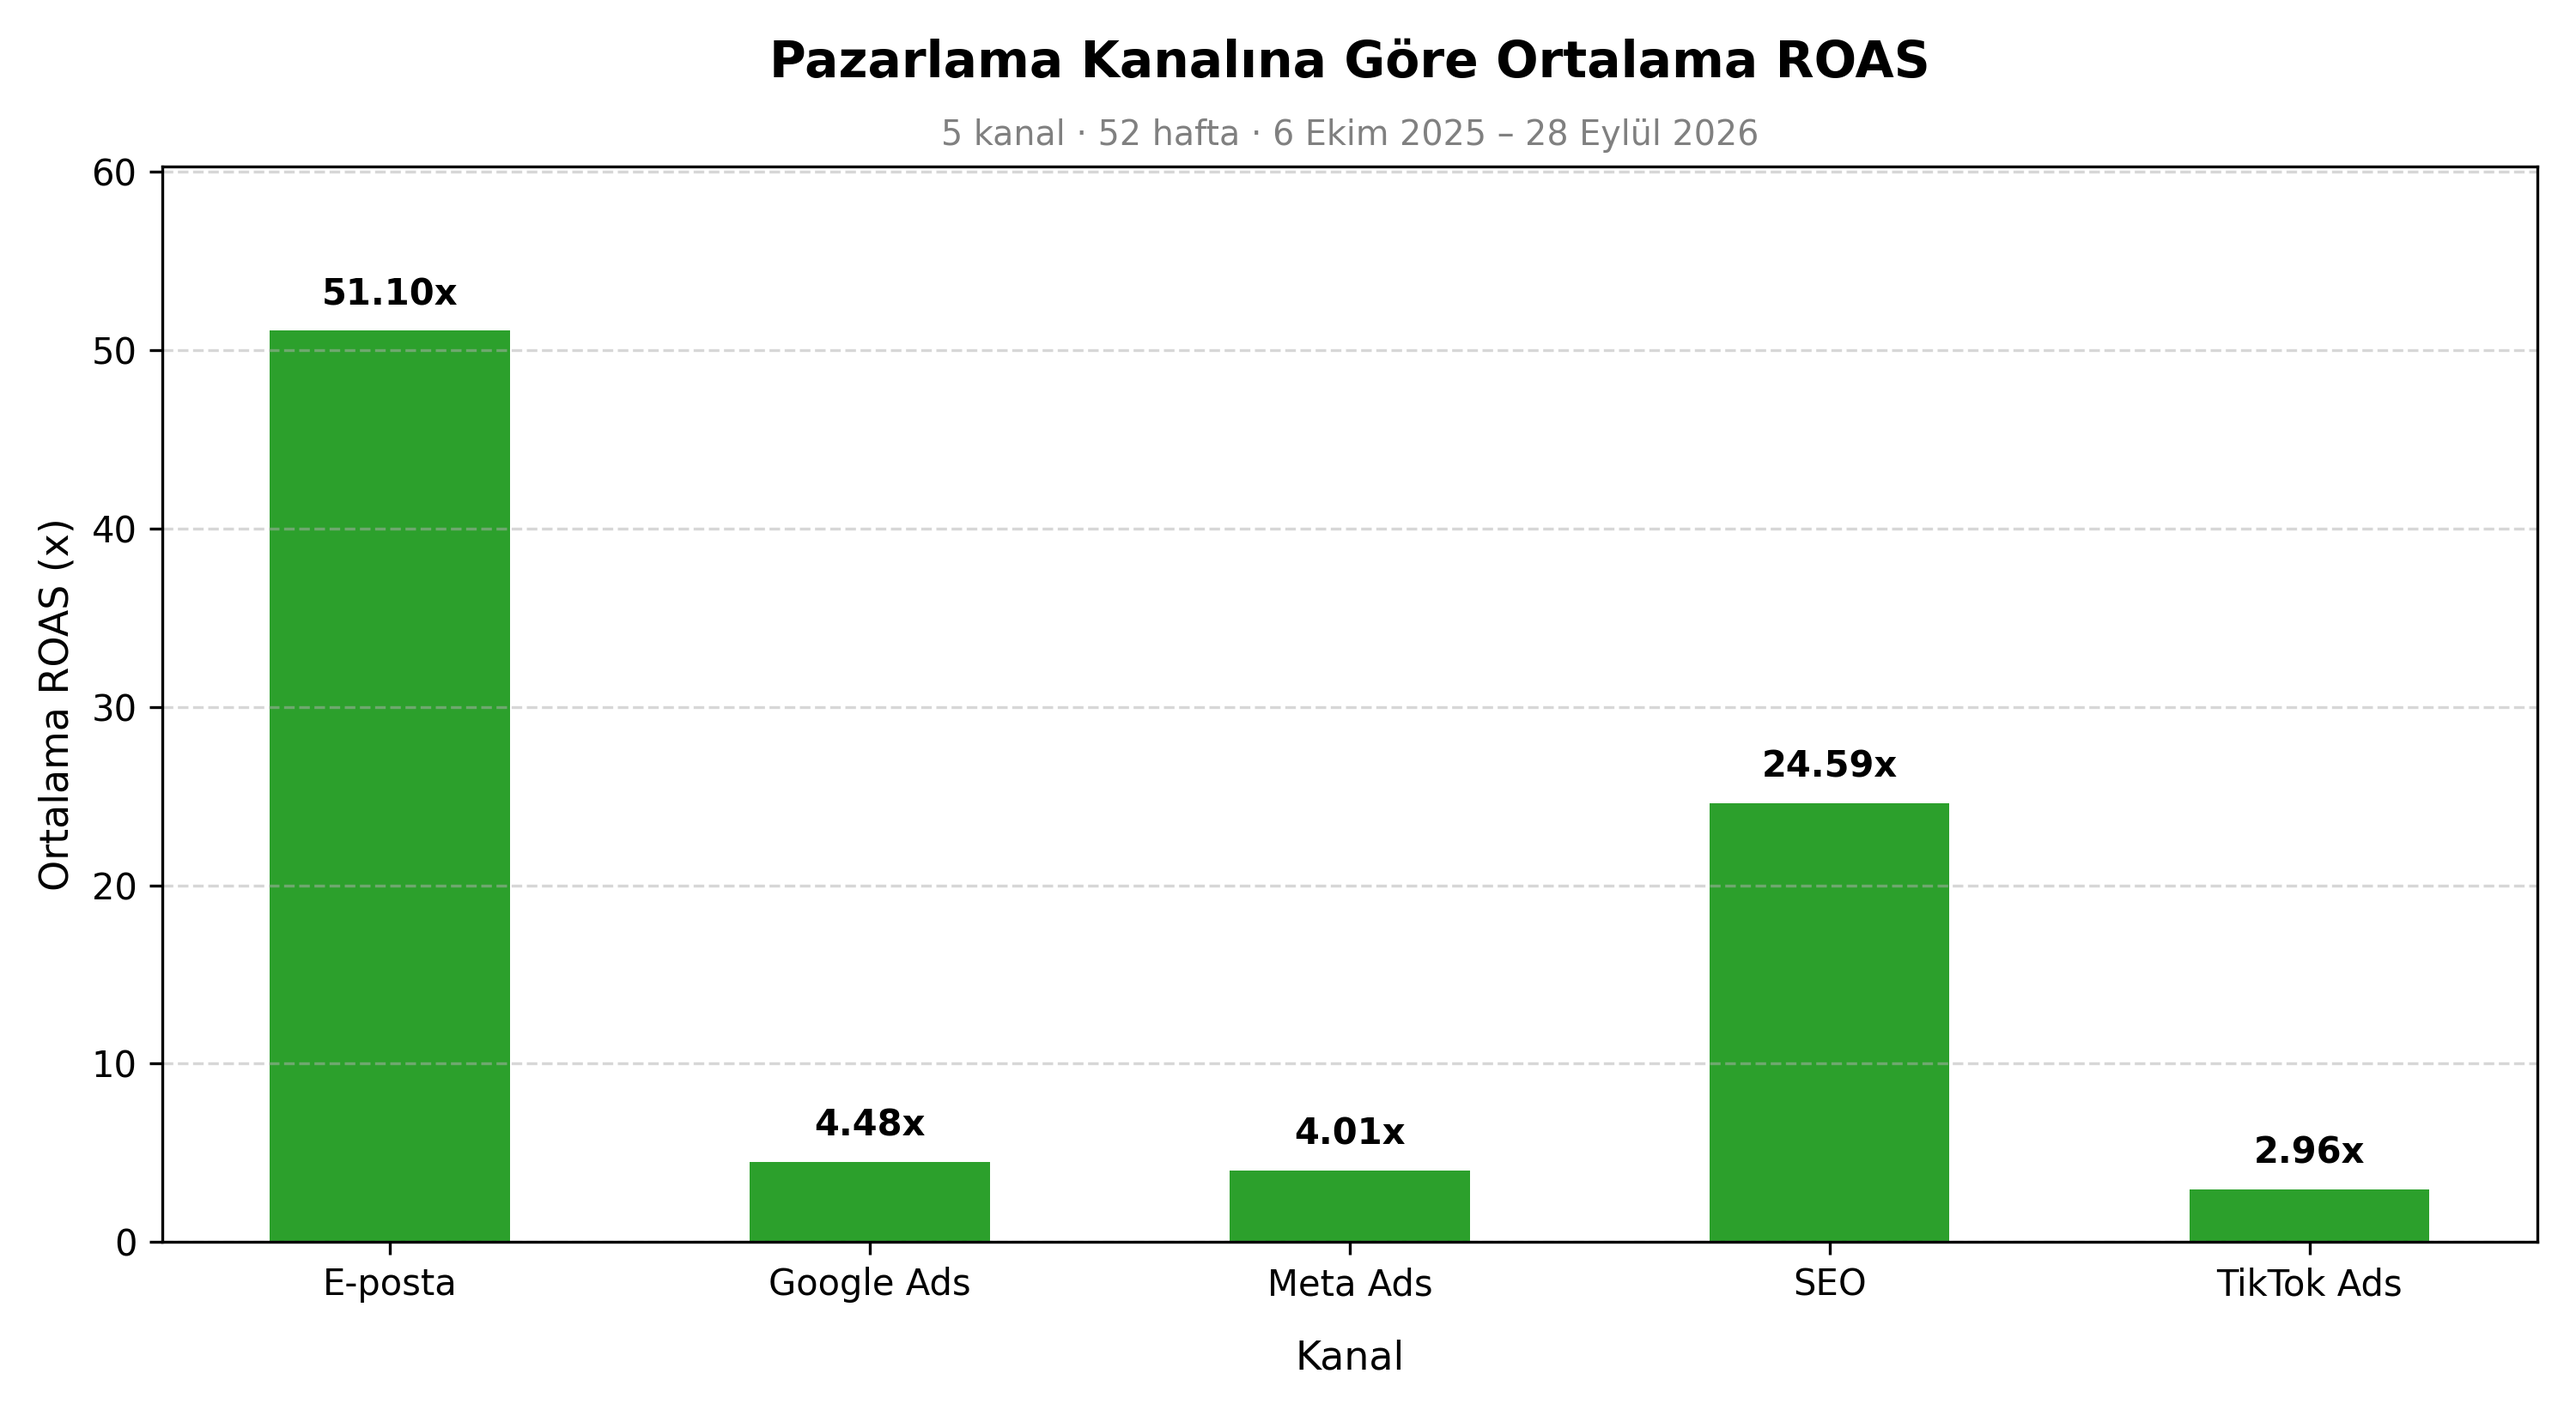
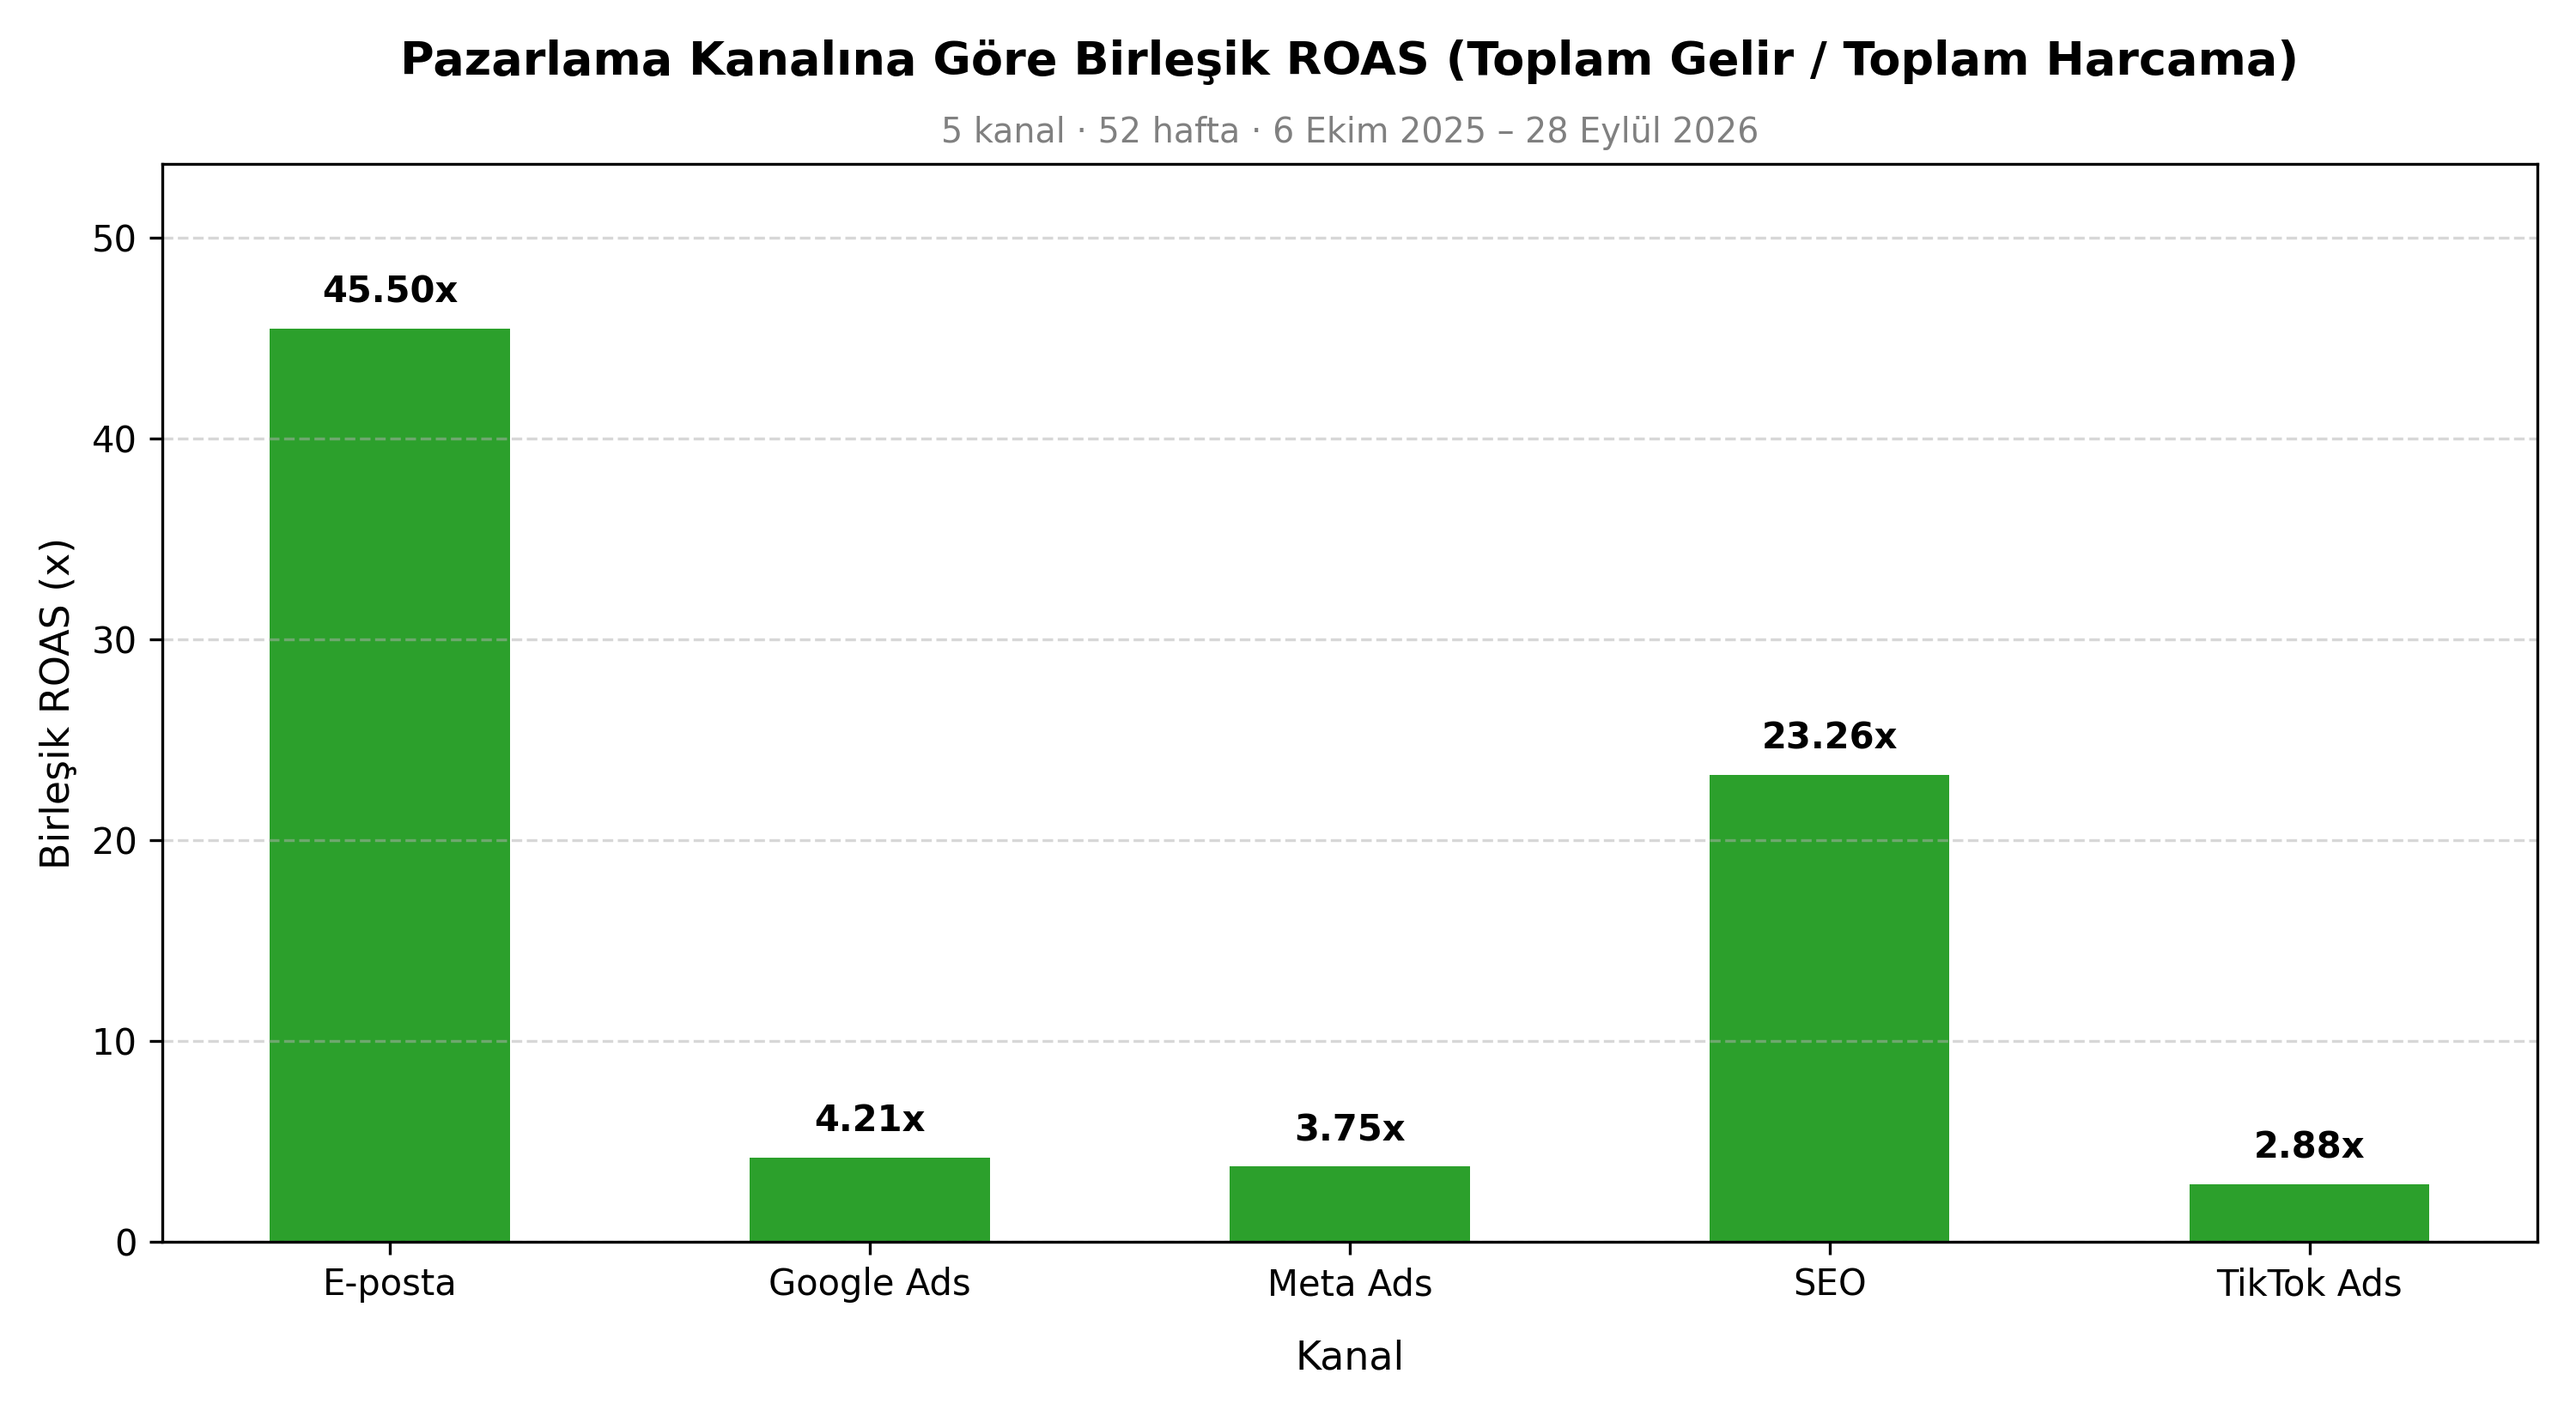
fix(fe): update channel ROAS calculation to combined total revenue / total spend

diff --git a/generate_visuals.py b/generate_visuals.py
@@ -9,14 +9,7 @@ os.makedirs("visuals", exist_ok=True)
 df = pd.read_csv("data/kampanya-performans.csv")
 df.columns = df.columns.str.strip().str.lower()
 
-# ROAS Sütun Hesabı
-if "harcama_tl" in df.columns and "gelir_tl" in df.columns:
-    df["roas_val"] = df["gelir_tl"] / df["harcama_tl"]
-elif "roas" in df.columns:
-    df["roas_val"] = df["roas"]
-else:
-    df["roas_val"] = df.iloc[:, -2]
-
+# Sütun isimlerini belirle
 week_col = next(
     (
         c
@@ -32,6 +25,14 @@ revenue_col = next(
         if any(k in c for k in ["gelir", "revenue", "ciro"])
     ),
     "gelir_tl",
+)
+spend_col = next(
+    (
+        c
+        for c in df.columns
+        if any(k in c for k in ["harcama", "spend", "gider"])
+    ),
+    "harcama_tl",
 )
 channel_col = next(
     (
@@ -57,7 +58,6 @@ ax.plot(
     color="#1f77b4",
 )
 
-# Başlık ve Alt Başlığı Birbirinden Ayırıyoruz
 plt.title(
     "Haftalık Toplam Gelir Trendi", fontsize=14, fontweight="bold", pad=25
 )
@@ -85,10 +85,15 @@ plt.savefig("visuals/gelir-zaman-serisi.png", dpi=300)
 plt.close()
 
 # ---------------------------------------------------------
-# 2. GRAFİK: Kırılım (Kanala Göre Ortalama ROAS)
+# 2. GRAFİK: Kırılım (Kanala Göre Birleşik ROAS: Toplam Gelir / Toplam Harcama)
 # ---------------------------------------------------------
 fig, ax = plt.subplots(figsize=(10, 5.5))
-df_channel = df.groupby(channel_col, as_index=False)["roas_val"].mean()
+
+# Analiz dokümanındaki yöntem: Toplam Gelir / Toplam Harcama (Birleşik ROAS)
+df_channel = df.groupby(channel_col, as_index=False).agg(
+    {revenue_col: "sum", spend_col: "sum"}
+)
+df_channel["roas_val"] = df_channel[revenue_col] / df_channel[spend_col]
 
 bars = ax.bar(
     df_channel[channel_col],
@@ -97,10 +102,9 @@ bars = ax.bar(
     width=0.5,
 )
 
-# Başlık Düzeltmesi
 plt.title(
-    "Pazarlama Kanalına Göre Ortalama ROAS",
-    fontsize=14,
+    "Pazarlama Kanalına Göre Birleşik ROAS (Toplam Gelir / Toplam Harcama)",
+    fontsize=13,
     fontweight="bold",
     pad=25,
 )
@@ -115,7 +119,7 @@ plt.text(
 )
 
 plt.xlabel("Kanal", fontsize=11, labelpad=10)
-plt.ylabel("Ortalama ROAS (x)", fontsize=11)
+plt.ylabel("Birleşik ROAS (x)", fontsize=11)
 
 max_y = df_channel["roas_val"].max()
 for bar in bars:
@@ -136,4 +140,6 @@ plt.tight_layout()
 plt.savefig("visuals/kanal-kirilim.png", dpi=300)
 plt.close()
 
-print("Grafikler başlıklar düzeltilerek yeniden üretildi!")
+print(
+    "Grafikler analiz dokümanındaki birleşik ROAS hesabı ile güncellendi!"
+)
